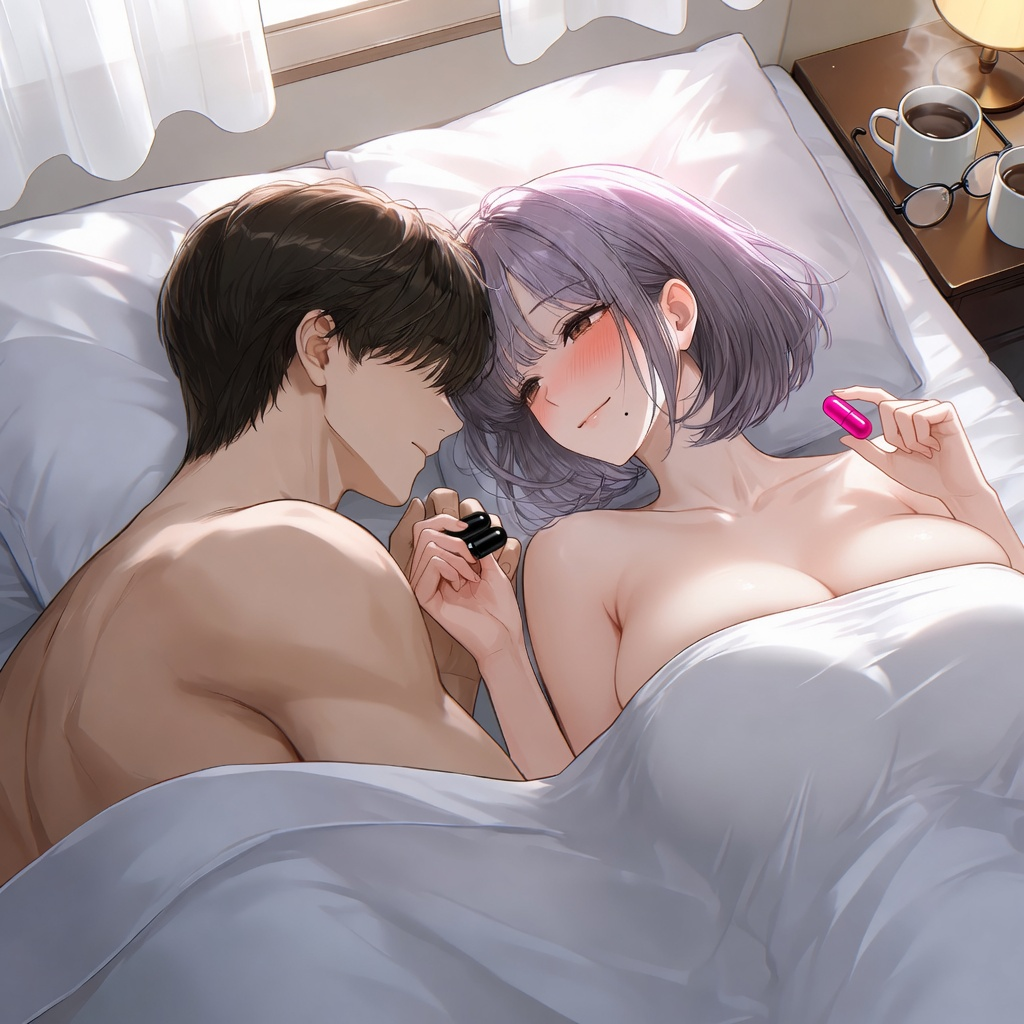
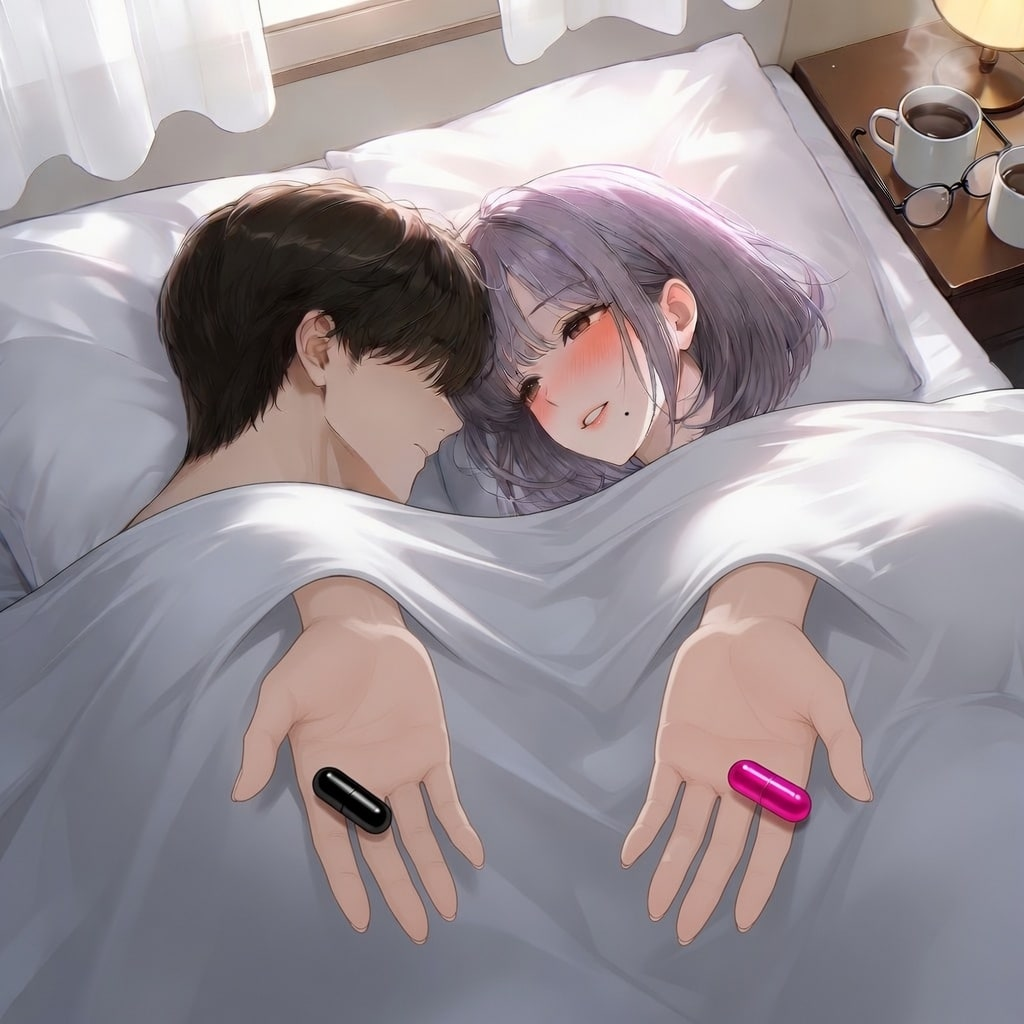
Hold the same school gate when the pink pill opens Cupid, and wake the black pill into Riin's lab.
The arrival no longer flashes the title menu, the bedroom shows two hands under the sheet, and the language redirect keeps the gate.

diff --git a/index.html b/index.html
@@ -19,7 +19,7 @@
                 if (!M[s]) s = 'en';
                 window.CupidStorage.setItem(K, s);
             }
-            if (s !== P && M[s]) location.replace(M[s]);
+            if (s !== P && M[s]) location.replace(M[s] + location.search + location.hash);
         } catch (e) { }
     })();
     </script>
@@ -922,6 +922,29 @@
     <meta name="apple-mobile-web-app-capable" content="yes">
     <meta name="apple-mobile-web-app-status-bar-style" content="black-translucent">
 <script src="assets/js/immersive.js?v=20260916-immersive-disabled-v1" defer></script>
+
+    <style id="cupid-gate-veil-style">
+        html.cupid-from-gate { background: #f3d5df url('assets/images/background/gate_bloom.jpg') center/cover no-repeat; }
+        html.cupid-from-gate body { background: transparent; }
+        html.cupid-from-gate #landing-container,
+        html.cupid-from-gate .lang-switch { visibility: hidden !important; }
+        #cupid-gate-veil { position: fixed; inset: 0; z-index: 1600; background: #f3d5df url('assets/images/background/gate_bloom.jpg') center/cover no-repeat; transition: opacity 1.15s ease; pointer-events: auto; }
+        #cupid-gate-veil.cupid-gate-veil-out { opacity: 0; pointer-events: none; }
+    </style>
+    <script id="cupid-gate-veil-boot">
+        (function () {
+            if (!/(?:^|[?&])gate=1(?:&|$)/.test(location.search)) return;
+            document.documentElement.classList.add('cupid-from-gate');
+            var mount = function () {
+                if (document.getElementById('cupid-gate-veil')) return;
+                var veil = document.createElement('div');
+                veil.id = 'cupid-gate-veil';
+                (document.body || document.documentElement).appendChild(veil);
+            };
+            if (document.body) mount();
+            else document.addEventListener('DOMContentLoaded', mount);
+        })();
+    </script>
 </head>
 
 <body>
@@ -1257,7 +1280,7 @@
     </script>
 
     <!-- 게임 스크립트 (동적 로더) -->
-<script data-cupid-entry-script="true" src="assets/js/loaders/game-loader.js?v=2.9.265&history=20260926-dizzy"></script>
+<script data-cupid-entry-script="true" src="assets/js/loaders/game-loader.js?v=2.9.265&history=20260926-cross"></script>
 
     <script>
         // Initialize SoundManager + Enable Buttons (게임 스크립트 로드 완료 후)

diff --git a/assets/js/loaders/game-loader.js b/assets/js/loaders/game-loader.js
@@ -287,8 +287,9 @@
     function buildScriptUrl(src, attempt) {
         var query = '?v=' + encodeURIComponent(version);
         if (src === 'modules/config.js' || src === 'modules/FreeTalkSystem.js') query += '&history=20260924';
-        if (src === 'sound.js' || src === 'modules/GameEngine.js' || src === 'modules/SceneRenderer.js' || src === 'scenario/day5_4_night.js') query += '&history=20260926-bedline';
-        if (src === 'loaders/i18n-loader.js') query += '&history=20260926-dizzy';
+        if (src === 'sound.js' || src === 'scenario/day5_4_night.js') query += '&history=20260926-bedline';
+        if (src === 'modules/GameEngine.js' || src === 'modules/SceneRenderer.js') query += '&history=20260926-cross';
+        if (src === 'loaders/i18n-loader.js') query += '&history=20260926-cross';
         if (src === 'affinity-corrections.js' || src === 'progression-integrity.js' || src === 'modules/StateManager.js' || src === 'modules/RouteTelemetry.js' || src === 'modules/SceneRenderer.js' || src === 'modules/GameEngine.js' || src === 'modules/FreeTalkSystem.js' || src === 'modules/GalleryManager.js' || src === 'gallery-progress.js' || src === 'media-gate.js') query += '&guard=20260926-gallery-slot';
         if (attempt > 0) {
             query += '&retry=' + Date.now();
@@ -454,6 +455,19 @@
             }
         }
         if (/(?:^|[?&])gate=1(?:&|$)/.test(location.search)) {
+            if (typeof closeNewGameConfirm === 'function' && !closeNewGameConfirm.__gateWrapped) {
+                const origClose = closeNewGameConfirm;
+                window.closeNewGameConfirm = function (e) {
+                    origClose(e);
+                    const modal = document.getElementById('newGameConfirmModal');
+                    if (!modal || modal.style.display === 'none') {
+                        document.documentElement.classList.remove('cupid-from-gate');
+                        const veil = document.getElementById('cupid-gate-veil');
+                        if (veil) veil.remove();
+                    }
+                };
+                window.closeNewGameConfirm.__gateWrapped = true;
+            }
             setTimeout(() => {
                 if (typeof startGame !== 'function') return;
                 const continueBtn = document.getElementById('continue-btn');

diff --git a/index-de.html b/index-de.html
@@ -914,6 +914,29 @@
     <meta name="apple-mobile-web-app-capable" content="yes">
     <meta name="apple-mobile-web-app-status-bar-style" content="black-translucent">
 <script src="assets/js/immersive.js?v=20260916-immersive-disabled-v1" defer></script>
+
+    <style id="cupid-gate-veil-style">
+        html.cupid-from-gate { background: #f3d5df url('assets/images/background/gate_bloom.jpg') center/cover no-repeat; }
+        html.cupid-from-gate body { background: transparent; }
+        html.cupid-from-gate #landing-container,
+        html.cupid-from-gate .lang-switch { visibility: hidden !important; }
+        #cupid-gate-veil { position: fixed; inset: 0; z-index: 1600; background: #f3d5df url('assets/images/background/gate_bloom.jpg') center/cover no-repeat; transition: opacity 1.15s ease; pointer-events: auto; }
+        #cupid-gate-veil.cupid-gate-veil-out { opacity: 0; pointer-events: none; }
+    </style>
+    <script id="cupid-gate-veil-boot">
+        (function () {
+            if (!/(?:^|[?&])gate=1(?:&|$)/.test(location.search)) return;
+            document.documentElement.classList.add('cupid-from-gate');
+            var mount = function () {
+                if (document.getElementById('cupid-gate-veil')) return;
+                var veil = document.createElement('div');
+                veil.id = 'cupid-gate-veil';
+                (document.body || document.documentElement).appendChild(veil);
+            };
+            if (document.body) mount();
+            else document.addEventListener('DOMContentLoaded', mount);
+        })();
+    </script>
 </head>
 
 <body>
@@ -1244,7 +1267,7 @@
     <script>window.preventAutoStart = true;</script>
 
     <!-- Game Scripts (Dynamic Loader) -->
-<script data-cupid-entry-script="true" src="assets/js/loaders/game-loader.js?v=2.9.265&history=20260926-dizzy"></script>
+<script data-cupid-entry-script="true" src="assets/js/loaders/game-loader.js?v=2.9.265&history=20260926-cross"></script>
 
     <script>
         // Initialize SoundManager + Enable Buttons (게임 스크립트 로드 완료 후)

diff --git a/index-en.html b/index-en.html
@@ -914,6 +914,29 @@
     <meta name="apple-mobile-web-app-capable" content="yes">
     <meta name="apple-mobile-web-app-status-bar-style" content="black-translucent">
 <script src="assets/js/immersive.js?v=20260916-immersive-disabled-v1" defer></script>
+
+    <style id="cupid-gate-veil-style">
+        html.cupid-from-gate { background: #f3d5df url('assets/images/background/gate_bloom.jpg') center/cover no-repeat; }
+        html.cupid-from-gate body { background: transparent; }
+        html.cupid-from-gate #landing-container,
+        html.cupid-from-gate .lang-switch { visibility: hidden !important; }
+        #cupid-gate-veil { position: fixed; inset: 0; z-index: 1600; background: #f3d5df url('assets/images/background/gate_bloom.jpg') center/cover no-repeat; transition: opacity 1.15s ease; pointer-events: auto; }
+        #cupid-gate-veil.cupid-gate-veil-out { opacity: 0; pointer-events: none; }
+    </style>
+    <script id="cupid-gate-veil-boot">
+        (function () {
+            if (!/(?:^|[?&])gate=1(?:&|$)/.test(location.search)) return;
+            document.documentElement.classList.add('cupid-from-gate');
+            var mount = function () {
+                if (document.getElementById('cupid-gate-veil')) return;
+                var veil = document.createElement('div');
+                veil.id = 'cupid-gate-veil';
+                (document.body || document.documentElement).appendChild(veil);
+            };
+            if (document.body) mount();
+            else document.addEventListener('DOMContentLoaded', mount);
+        })();
+    </script>
 </head>
 
 <body>
@@ -1245,7 +1268,7 @@
     <script>window.preventAutoStart = true;</script>
 
     <!-- Game Scripts (Dynamic Loader) -->
-<script data-cupid-entry-script="true" src="assets/js/loaders/game-loader.js?v=2.9.265&history=20260926-dizzy"></script>
+<script data-cupid-entry-script="true" src="assets/js/loaders/game-loader.js?v=2.9.265&history=20260926-cross"></script>
 
     <script>
         // Initialize SoundManager + Enable Buttons (게임 스크립트 로드 완료 후)

diff --git a/index-es.html b/index-es.html
@@ -914,6 +914,29 @@
     <meta name="apple-mobile-web-app-capable" content="yes">
     <meta name="apple-mobile-web-app-status-bar-style" content="black-translucent">
 <script src="assets/js/immersive.js?v=20260916-immersive-disabled-v1" defer></script>
+
+    <style id="cupid-gate-veil-style">
+        html.cupid-from-gate { background: #f3d5df url('assets/images/background/gate_bloom.jpg') center/cover no-repeat; }
+        html.cupid-from-gate body { background: transparent; }
+        html.cupid-from-gate #landing-container,
+        html.cupid-from-gate .lang-switch { visibility: hidden !important; }
+        #cupid-gate-veil { position: fixed; inset: 0; z-index: 1600; background: #f3d5df url('assets/images/background/gate_bloom.jpg') center/cover no-repeat; transition: opacity 1.15s ease; pointer-events: auto; }
+        #cupid-gate-veil.cupid-gate-veil-out { opacity: 0; pointer-events: none; }
+    </style>
+    <script id="cupid-gate-veil-boot">
+        (function () {
+            if (!/(?:^|[?&])gate=1(?:&|$)/.test(location.search)) return;
+            document.documentElement.classList.add('cupid-from-gate');
+            var mount = function () {
+                if (document.getElementById('cupid-gate-veil')) return;
+                var veil = document.createElement('div');
+                veil.id = 'cupid-gate-veil';
+                (document.body || document.documentElement).appendChild(veil);
+            };
+            if (document.body) mount();
+            else document.addEventListener('DOMContentLoaded', mount);
+        })();
+    </script>
 </head>
 
 <body>
@@ -1245,7 +1268,7 @@
     <script>window.preventAutoStart = true;</script>
 
     <!-- Game Scripts (Dynamic Loader) -->
-<script data-cupid-entry-script="true" src="assets/js/loaders/game-loader.js?v=2.9.265&history=20260926-dizzy"></script>
+<script data-cupid-entry-script="true" src="assets/js/loaders/game-loader.js?v=2.9.265&history=20260926-cross"></script>
 
     <script>
         // Initialize SoundManager + Enable Buttons (게임 스크립트 로드 완료 후)

diff --git a/index-fr.html b/index-fr.html
@@ -914,6 +914,29 @@
     <meta name="apple-mobile-web-app-capable" content="yes">
     <meta name="apple-mobile-web-app-status-bar-style" content="black-translucent">
 <script src="assets/js/immersive.js?v=20260916-immersive-disabled-v1" defer></script>
+
+    <style id="cupid-gate-veil-style">
+        html.cupid-from-gate { background: #f3d5df url('assets/images/background/gate_bloom.jpg') center/cover no-repeat; }
+        html.cupid-from-gate body { background: transparent; }
+        html.cupid-from-gate #landing-container,
+        html.cupid-from-gate .lang-switch { visibility: hidden !important; }
+        #cupid-gate-veil { position: fixed; inset: 0; z-index: 1600; background: #f3d5df url('assets/images/background/gate_bloom.jpg') center/cover no-repeat; transition: opacity 1.15s ease; pointer-events: auto; }
+        #cupid-gate-veil.cupid-gate-veil-out { opacity: 0; pointer-events: none; }
+    </style>
+    <script id="cupid-gate-veil-boot">
+        (function () {
+            if (!/(?:^|[?&])gate=1(?:&|$)/.test(location.search)) return;
+            document.documentElement.classList.add('cupid-from-gate');
+            var mount = function () {
+                if (document.getElementById('cupid-gate-veil')) return;
+                var veil = document.createElement('div');
+                veil.id = 'cupid-gate-veil';
+                (document.body || document.documentElement).appendChild(veil);
+            };
+            if (document.body) mount();
+            else document.addEventListener('DOMContentLoaded', mount);
+        })();
+    </script>
 </head>
 
 <body>
@@ -1244,7 +1267,7 @@
     <script>window.preventAutoStart = true;</script>
 
     <!-- Game Scripts (Dynamic Loader) -->
-<script data-cupid-entry-script="true" src="assets/js/loaders/game-loader.js?v=2.9.265&history=20260926-dizzy"></script>
+<script data-cupid-entry-script="true" src="assets/js/loaders/game-loader.js?v=2.9.265&history=20260926-cross"></script>
 
     <script>
         // Initialize SoundManager + Enable Buttons (게임 스크립트 로드 완료 후)

diff --git a/index-ja.html b/index-ja.html
@@ -914,6 +914,29 @@
     <meta name="apple-mobile-web-app-capable" content="yes">
     <meta name="apple-mobile-web-app-status-bar-style" content="black-translucent">
 <script src="assets/js/immersive.js?v=20260916-immersive-disabled-v1" defer></script>
+
+    <style id="cupid-gate-veil-style">
+        html.cupid-from-gate { background: #f3d5df url('assets/images/background/gate_bloom.jpg') center/cover no-repeat; }
+        html.cupid-from-gate body { background: transparent; }
+        html.cupid-from-gate #landing-container,
+        html.cupid-from-gate .lang-switch { visibility: hidden !important; }
+        #cupid-gate-veil { position: fixed; inset: 0; z-index: 1600; background: #f3d5df url('assets/images/background/gate_bloom.jpg') center/cover no-repeat; transition: opacity 1.15s ease; pointer-events: auto; }
+        #cupid-gate-veil.cupid-gate-veil-out { opacity: 0; pointer-events: none; }
+    </style>
+    <script id="cupid-gate-veil-boot">
+        (function () {
+            if (!/(?:^|[?&])gate=1(?:&|$)/.test(location.search)) return;
+            document.documentElement.classList.add('cupid-from-gate');
+            var mount = function () {
+                if (document.getElementById('cupid-gate-veil')) return;
+                var veil = document.createElement('div');
+                veil.id = 'cupid-gate-veil';
+                (document.body || document.documentElement).appendChild(veil);
+            };
+            if (document.body) mount();
+            else document.addEventListener('DOMContentLoaded', mount);
+        })();
+    </script>
 </head>
 
 <body>
@@ -1244,7 +1267,7 @@
     <script>window.preventAutoStart = true;</script>
 
     <!-- Game Scripts (Dynamic Loader) -->
-<script data-cupid-entry-script="true" src="assets/js/loaders/game-loader.js?v=2.9.265&history=20260926-dizzy"></script>
+<script data-cupid-entry-script="true" src="assets/js/loaders/game-loader.js?v=2.9.265&history=20260926-cross"></script>
 
     <script>
         // Initialize SoundManager + Enable Buttons (게임 스크립트 로드 완료 후)

diff --git a/index-pt.html b/index-pt.html
@@ -914,6 +914,29 @@
     <meta name="apple-mobile-web-app-capable" content="yes">
     <meta name="apple-mobile-web-app-status-bar-style" content="black-translucent">
 <script src="assets/js/immersive.js?v=20260916-immersive-disabled-v1" defer></script>
+
+    <style id="cupid-gate-veil-style">
+        html.cupid-from-gate { background: #f3d5df url('assets/images/background/gate_bloom.jpg') center/cover no-repeat; }
+        html.cupid-from-gate body { background: transparent; }
+        html.cupid-from-gate #landing-container,
+        html.cupid-from-gate .lang-switch { visibility: hidden !important; }
+        #cupid-gate-veil { position: fixed; inset: 0; z-index: 1600; background: #f3d5df url('assets/images/background/gate_bloom.jpg') center/cover no-repeat; transition: opacity 1.15s ease; pointer-events: auto; }
+        #cupid-gate-veil.cupid-gate-veil-out { opacity: 0; pointer-events: none; }
+    </style>
+    <script id="cupid-gate-veil-boot">
+        (function () {
+            if (!/(?:^|[?&])gate=1(?:&|$)/.test(location.search)) return;
+            document.documentElement.classList.add('cupid-from-gate');
+            var mount = function () {
+                if (document.getElementById('cupid-gate-veil')) return;
+                var veil = document.createElement('div');
+                veil.id = 'cupid-gate-veil';
+                (document.body || document.documentElement).appendChild(veil);
+            };
+            if (document.body) mount();
+            else document.addEventListener('DOMContentLoaded', mount);
+        })();
+    </script>
 </head>
 
 <body>
@@ -1244,7 +1267,7 @@
     <script>window.preventAutoStart = true;</script>
 
     <!-- Game Scripts (Dynamic Loader) -->
-<script data-cupid-entry-script="true" src="assets/js/loaders/game-loader.js?v=2.9.265&history=20260926-dizzy"></script>
+<script data-cupid-entry-script="true" src="assets/js/loaders/game-loader.js?v=2.9.265&history=20260926-cross"></script>
 
     <script>
         // Initialize SoundManager + Enable Buttons (게임 스크립트 로드 완료 후)

diff --git a/assets/js/modules/SceneRenderer.js b/assets/js/modules/SceneRenderer.js
@@ -471,7 +471,7 @@ class SceneRenderer {
         // CSS 변수는 style.css 기준으로 URL이 해석되므로 절대 URL로 변환
         const absoluteBgUrl = new URL(displayBgUrl, document.baseURI).href;
         bgLayer.style.setProperty('--bg-next', `url(${absoluteBgUrl})`);
-        bgLayer.classList.remove('bg-crossfade', 'bg-crossfade-slow');
+        bgLayer.classList.remove('bg-crossfade', 'bg-crossfade-slow', 'bg-crossfade-long');
         // ::after에 background-image 설정
         bgLayer.style.cssText = bgLayer.style.cssText; // force reflow
         void bgLayer.offsetWidth; // force reflow
@@ -481,7 +481,7 @@ class SceneRenderer {
         await new Promise(r => setTimeout(r, fadeDuration));
         if (this.lastBgUrl === bgUrl) {
             bgLayer.style.backgroundImage = `url(${displayBgUrl})`;
-            bgLayer.classList.remove('bg-crossfade', 'bg-crossfade-slow');
+            bgLayer.classList.remove('bg-crossfade', 'bg-crossfade-slow', 'bg-crossfade-long');
             bgLayer.style.removeProperty('--bg-next');
         }
     }

diff --git a/assets/js/modules/GameEngine.js b/assets/js/modules/GameEngine.js
@@ -1583,8 +1583,19 @@ class GameEngine {
      * - renderScene() 완료 후 자동 호출
      * - 매 씬마다 저장되므로 데이터 손실 걱정 없음
      */
+    _releaseGateVeil() {
+        const veil = document.getElementById('cupid-gate-veil');
+        if (!veil || veil.dataset.leaving === '1') return;
+        veil.dataset.leaving = '1';
+        window.setTimeout(() => {
+            veil.classList.add('cupid-gate-veil-out');
+            window.setTimeout(() => veil.remove(), 1200);
+        }, 520);
+    }
+
     _applyCrossHitch(sceneId) {
         const fromGate = /(?:^|[?&])gate=1(?:&|$)/.test(location.search);
+        if (fromGate && sceneId === 'start') this._releaseGateVeil();
         const hitch = sceneId === 'start_again'
             || (sceneId === 'start' && fromGate)
             || (sceneId === 'morning2_yuna_seen' && this._hasPlayedNevergrad());

diff --git a/assets/js/loaders/i18n-loader.js b/assets/js/loaders/i18n-loader.js
@@ -77,7 +77,7 @@
 
                     // Promise.allSettled로 수집하므로 개별 rejection은 상위로 전파되지 않음
                     // (bingbot 등 크롤러가 Cloudflare에 차단당해 403 받을 때 unhandled rejection 발생하던 문제 방지)
-                    const task = () => fetchJsonWithRetry(`${basePath}/${file}?v=20260926-dizzy`)
+                    const task = () => fetchJsonWithRetry(`${basePath}/${file}?v=20260926-cross`)
                         .then(data => {
                             Object.assign(localeData[locale], data);
                             Object.assign(dayLocaleData[locale], data);

diff --git a/SCENARIO.md b/SCENARIO.md
@@ -30063,7 +30063,7 @@
 - 다음: `nurse_perfect_pills_black_3`
 
 - 캐릭터: `없음`
-**{name}**: *웃음을 거둔다. 침실 공기가 식고 스탠드가 꺼진다.*
+**{name}**: *웃음이 갈라진다. 침실 공기가 식고 스탠드가 꺼진다.*
 
 ---
 
@@ -30072,7 +30072,7 @@
 - 다음: `nurse_perfect_pills_black_4`
 
 - 캐릭터: `없음`
-**{name}**: *얼굴이 갈라진다. 짧은 보랏빛 머리가 보이고 눈이 금색이다.*
+**{name}**: *짧은 보랏빛 머리다. 눈이 금색이다. 여긴 침실이 아니다.*
 
 ---
 
